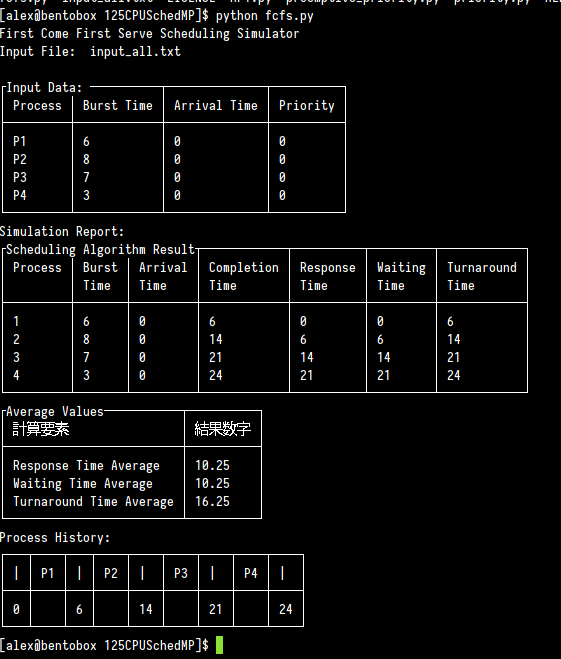
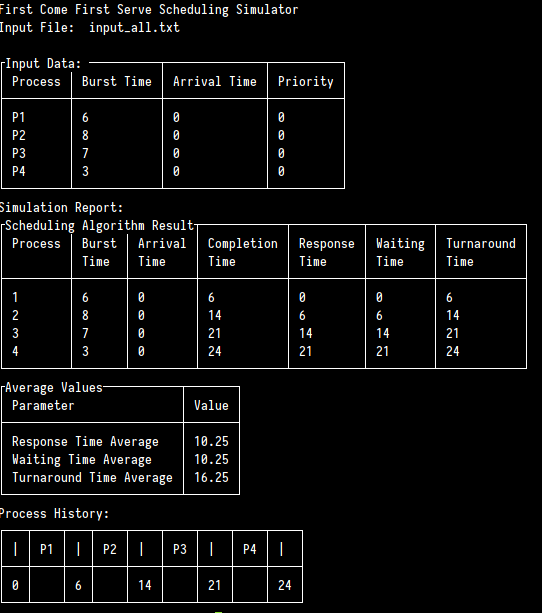
english

diff --git a/MP1.py b/MP1.py
@@ -58,7 +58,7 @@ def print_input_table(process_list):
     ]
     for p in process_list:
         input_table.append(["P"+str(p.id),p.burst_time,p.arrival_time,p.priority_number])
-    
+
     in_table = SingleTable(input_table)
     in_table.title = "Input Data: "
     print(in_table.table)
@@ -86,12 +86,12 @@ def print_simulation_report(fin, history_list):
     waiting_time_ave = waiting_time_ave / counter
     turnaround_time_ave = turnaround_time_ave / counter
     average_table_data = [
-        ['計算要素', '結果数字'],
+        ['Parameter', 'Value'],
         ['Response Time Average', response_time_ave],
         ['Waiting Time Average', waiting_time_ave],
         ['Turnaround Time Average', turnaround_time_ave]
     ]
-    
+
     #Simulation value output
     value_table = SingleTable(value_table_data)
     value_table.title = "Scheduling Algorithm Result"
